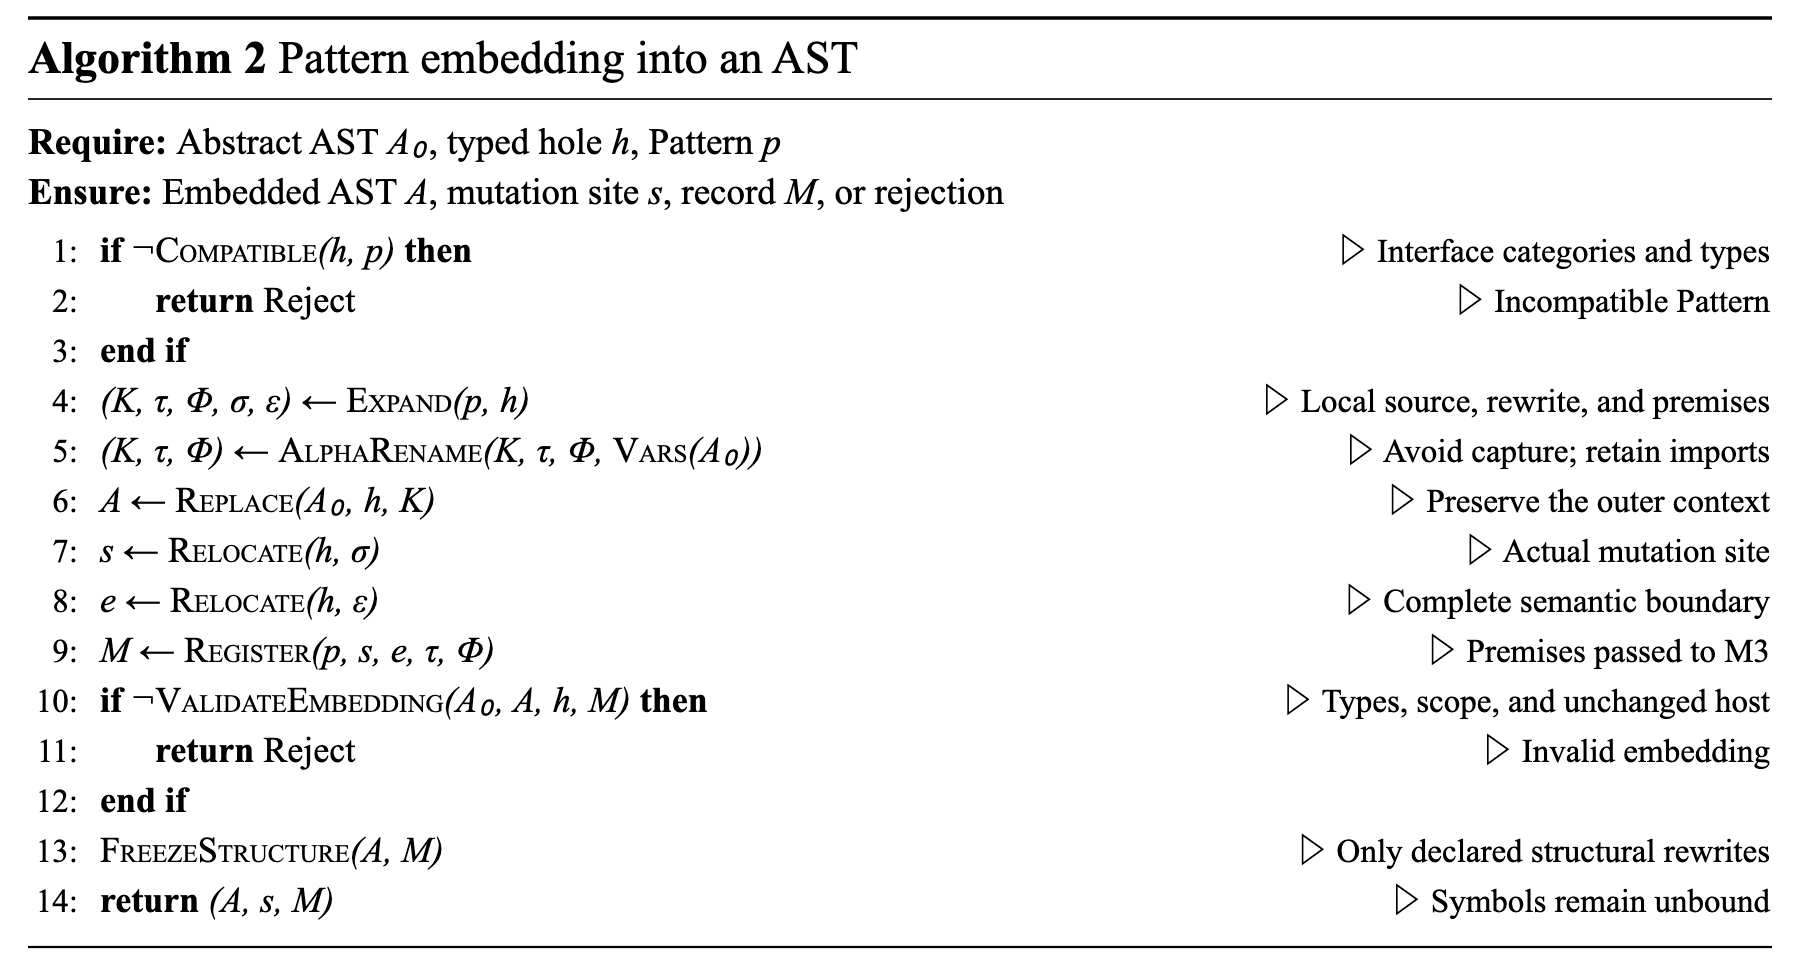
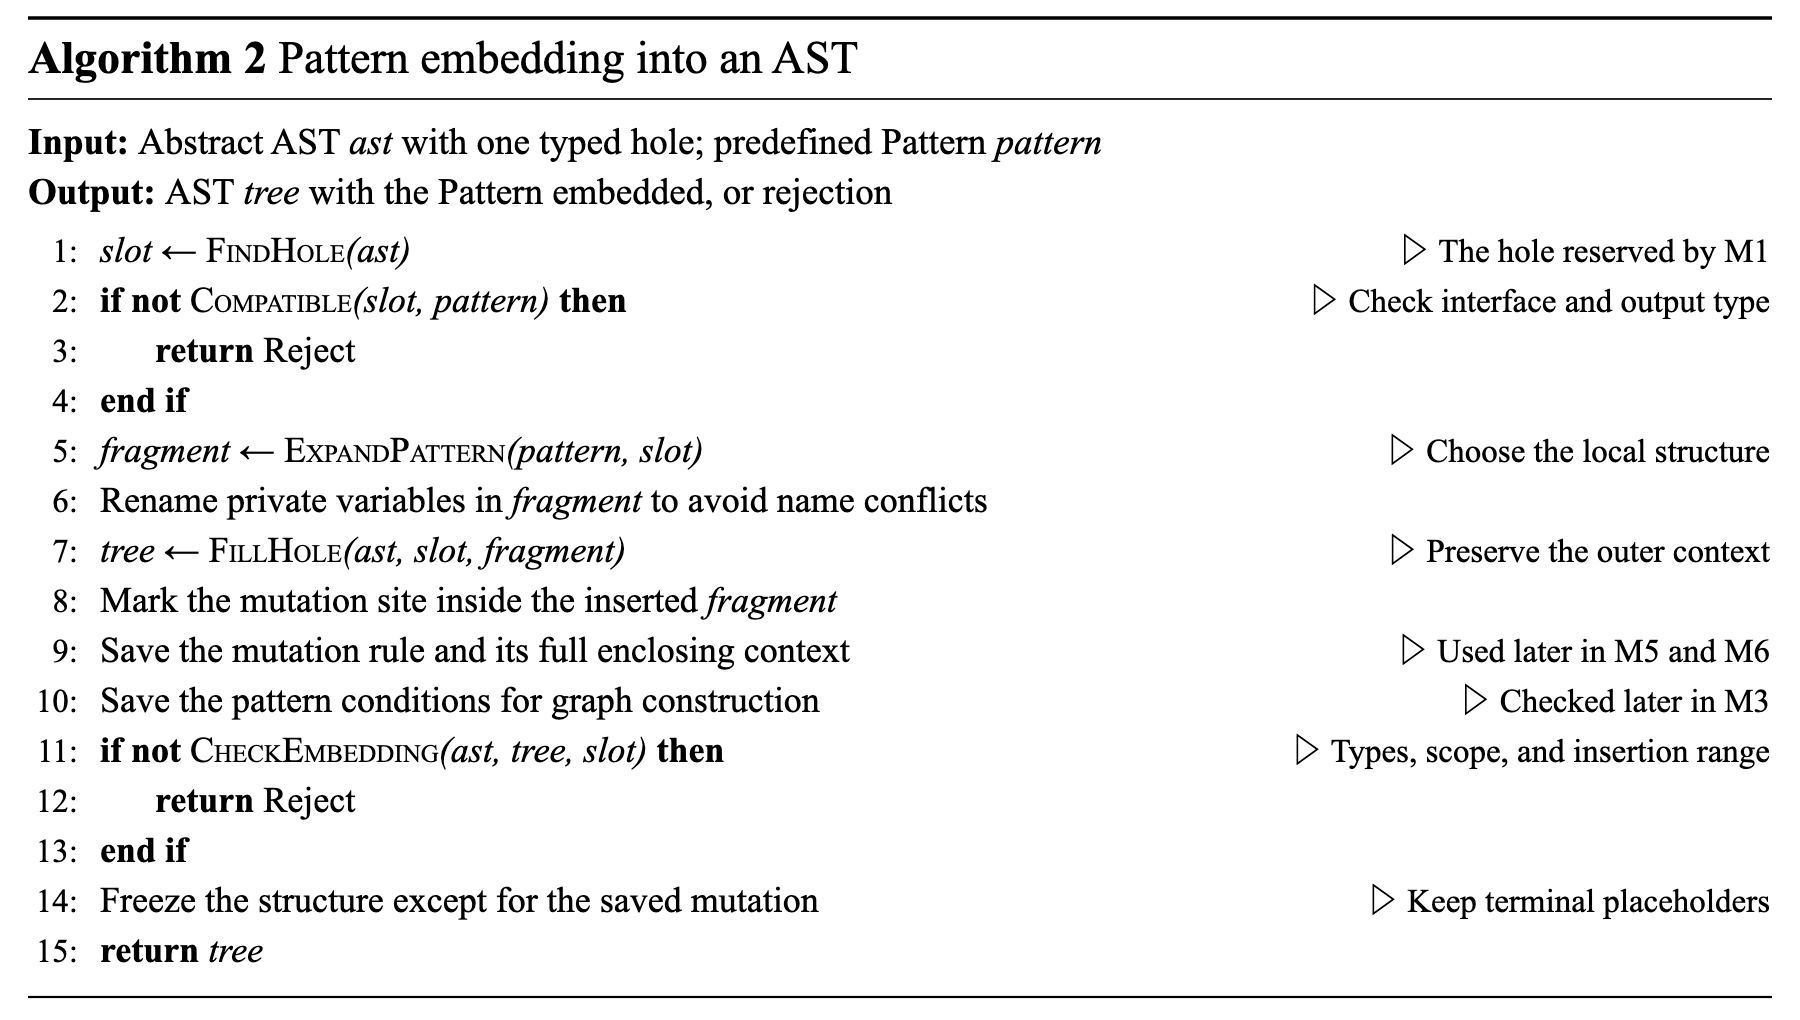
Rewrite Pattern embedding pseudocode with readable objects and actions

Changed region(s): [[0.0, 0.0, 0.9956, 0.9897], [0.7156, 0.4021, 0.9956, 0.8041], [0.7156, 0.2165, 0.9956, 0.3402]]

diff --git a/picture/algorithm_assets/build_pattern_embedding_algorithm.py b/picture/algorithm_assets/build_pattern_embedding_algorithm.py
@@ -16,32 +16,31 @@ def piece(value, kind='math'):
 
 
 ROWS = [
-    (0, [piece('if ', 'keyword'), piece('¬'), piece('Compatible', 'proc'), piece('(h, p)'), piece(' then', 'keyword')],
-     'Interface categories and types', r'\If{$\neg$\Call{Compatible}{$h,p$}}\Comment{Interface categories and types}'),
-    (1, [piece('return ', 'keyword'), piece('Reject', 'plain')],
-     'Incompatible Pattern', r'\State \Return \textsc{Reject}\Comment{Incompatible Pattern}'),
+    (0, [piece('slot ← '), piece('FindHole', 'proc'), piece('(ast)')],
+     'The hole reserved by M1', r'\State \textit{slot} $\gets$ \Call{FindHole}{\textit{ast}}\Comment{The hole reserved by M1}'),
+    (0, [piece('if not ', 'keyword'), piece('Compatible', 'proc'), piece('(slot, pattern)'), piece(' then', 'keyword')],
+     'Check interface and output type', r'\If{not \Call{Compatible}{\textit{slot}, \textit{pattern}}}\Comment{Check interface and output type}'),
+    (1, [piece('return ', 'keyword'), piece('Reject', 'plain')], '', r'\State \Return \textsc{Reject}'),
     (0, [piece('end if', 'keyword')], '', r'\EndIf'),
-    (0, [piece('(K, τ, Φ, σ, ε) ← '), piece('Expand', 'proc'), piece('(p, h)')],
-     'Local source, rewrite, and premises', r'\State $(K,\tau,\Phi,\sigma,\epsilon)\gets$\Call{Expand}{$p,h$}\Comment{Local source, rewrite, and premises}'),
-    (0, [piece('(K, τ, Φ) ← '), piece('AlphaRename', 'proc'), piece('(K, τ, Φ, '), piece('Vars', 'proc'), piece('(A₀))')],
-     'Avoid capture; retain imports', r'\State $(K,\tau,\Phi)\gets$\Call{AlphaRename}{$K,\tau,\Phi,\text{\textsc{Vars}}(A_0)$}\Comment{Avoid capture; retain imports}'),
-    (0, [piece('A ← '), piece('Replace', 'proc'), piece('(A₀, h, K)')],
-     'Preserve the outer context', r'\State $A\gets$\Call{Replace}{$A_0,h,K$}\Comment{Preserve the outer context}'),
-    (0, [piece('s ← '), piece('Relocate', 'proc'), piece('(h, σ)')],
-     'Actual mutation site', r'\State $s\gets$\Call{Relocate}{$h,\sigma$}\Comment{Actual mutation site}'),
-    (0, [piece('e ← '), piece('Relocate', 'proc'), piece('(h, ε)')],
-     'Complete semantic boundary', r'\State $e\gets$\Call{Relocate}{$h,\epsilon$}\Comment{Complete semantic boundary}'),
-    (0, [piece('M ← '), piece('Register', 'proc'), piece('(p, s, e, τ, Φ)')],
-     'Premises passed to M3', r'\State $M\gets$\Call{Register}{$p,s,e,\tau,\Phi$}\Comment{Premises passed to M3}'),
-    (0, [piece('if ', 'keyword'), piece('¬'), piece('ValidateEmbedding', 'proc'), piece('(A₀, A, h, M)'), piece(' then', 'keyword')],
-     'Types, scope, and unchanged host', r'\If{$\neg$\Call{ValidateEmbedding}{$A_0,A,h,M$}}\Comment{Types, scope, and unchanged host}'),
-    (1, [piece('return ', 'keyword'), piece('Reject', 'plain')],
-     'Invalid embedding', r'\State \Return \textsc{Reject}\Comment{Invalid embedding}'),
+    (0, [piece('fragment ← '), piece('ExpandPattern', 'proc'), piece('(pattern, slot)')],
+     'Choose the local structure', r'\State \textit{fragment} $\gets$ \Call{ExpandPattern}{\textit{pattern}, \textit{slot}}\Comment{Choose the local structure}'),
+    (0, [piece('Rename private variables in ', 'plain'), piece('fragment'), piece(' to avoid name conflicts', 'plain')],
+     '', r'\State Rename private variables in \textit{fragment} to avoid name conflicts'),
+    (0, [piece('tree ← '), piece('FillHole', 'proc'), piece('(ast, slot, fragment)')],
+     'Preserve the outer context', r'\State \textit{tree} $\gets$ \Call{FillHole}{\textit{ast}, \textit{slot}, \textit{fragment}}\Comment{Preserve the outer context}'),
+    (0, [piece('Mark the mutation site inside the inserted ', 'plain'), piece('fragment')],
+     '', r'\State Mark the mutation site inside the inserted \textit{fragment}'),
+    (0, [piece('Save the mutation rule and its full enclosing context', 'plain')],
+     'Used later in M5 and M6', r'\State Save the mutation rule and its full enclosing context\Comment{Used later in M5 and M6}'),
+    (0, [piece('Save the pattern conditions for graph construction', 'plain')],
+     'Checked later in M3', r'\State Save the pattern conditions for graph construction\Comment{Checked later in M3}'),
+    (0, [piece('if not ', 'keyword'), piece('CheckEmbedding', 'proc'), piece('(ast, tree, slot)'), piece(' then', 'keyword')],
+     'Types, scope, and insertion range', r'\If{not \Call{CheckEmbedding}{\textit{ast}, \textit{tree}, \textit{slot}}}\Comment{Types, scope, and insertion range}'),
+    (1, [piece('return ', 'keyword'), piece('Reject', 'plain')], '', r'\State \Return \textsc{Reject}'),
     (0, [piece('end if', 'keyword')], '', r'\EndIf'),
-    (0, [piece('FreezeStructure', 'proc'), piece('(A, M)')],
-     'Only declared structural rewrites', r'\State \Call{FreezeStructure}{$A,M$}\Comment{Only declared structural rewrites}'),
-    (0, [piece('return ', 'keyword'), piece('(A, s, M)')],
-     'Symbols remain unbound', r'\State \Return $(A,s,M)$\Comment{Symbols remain unbound}'),
+    (0, [piece('Freeze the structure except for the saved mutation', 'plain')],
+     'Keep terminal placeholders', r'\State Freeze the structure except for the saved mutation\Comment{Keep terminal placeholders}'),
+    (0, [piece('return ', 'keyword'), piece('tree')], '', r'\State \Return \textit{tree}'),
 ]
 
 
@@ -58,22 +57,21 @@ def rich_text(x, y, fragments, size=36, anchor='start'):
 
 def main():
     elements = [
-        '<svg xmlns="http://www.w3.org/2000/svg" width="1800" height="970" '
-        'viewBox="0 0 1800 970" role="img" aria-labelledby="title desc">',
+        '<svg xmlns="http://www.w3.org/2000/svg" width="1800" height="1020" '
+        'viewBox="0 0 1800 1020" role="img" aria-labelledby="title desc">',
         '<title id="title">Algorithm 2: Pattern embedding into an AST</title>',
-        '<desc id="desc">Fourteen numbered steps check a typed hole, expand and alpha-rename '
-        'a local Pattern, insert its source, register its mutation and complete semantic boundary, '
+        '<desc id="desc">Fifteen readable steps find a slot, expand a local Pattern, rename variables, '
+        'insert the fragment, mark the mutation site and save its complete context, '
         'validate structure, and freeze all undeclared generation changes. Graph premises are '
         'recorded for M3 rather than checked in M2.</desc>',
-        '<rect width="1800" height="970" fill="white"/>',
+        '<rect width="1800" height="1020" fill="white"/>',
         '<path d="M28 18H1772" stroke="black" stroke-width="3.5"/>',
         rich_text(28, 73, [piece('Algorithm 2 ', 'keyword'), piece('Pattern embedding into an AST', 'plain')], 46),
         '<path d="M28 99H1772" stroke="black" stroke-width="1.7"/>',
-        rich_text(28, 154, [piece('Require: ', 'keyword'), piece('Abstract AST ', 'plain'), piece('A₀'),
-                            piece(', typed hole ', 'plain'), piece('h'), piece(', Pattern ', 'plain'), piece('p')], 37),
-        rich_text(28, 204, [piece('Ensure: ', 'keyword'), piece('Embedded AST ', 'plain'), piece('A'),
-                            piece(', mutation site ', 'plain'), piece('s'), piece(', record ', 'plain'), piece('M'),
-                            piece(', or rejection', 'plain')], 37),
+        rich_text(28, 154, [piece('Input: ', 'keyword'), piece('Abstract AST ', 'plain'), piece('ast'),
+                            piece(' with one typed hole; predefined Pattern ', 'plain'), piece('pattern')], 37),
+        rich_text(28, 204, [piece('Output: ', 'keyword'), piece('AST ', 'plain'), piece('tree'),
+                            piece(' with the Pattern embedded, or rejection', 'plain')], 37),
     ]
     for index, (indent, fragments, comment, _) in enumerate(ROWS, 1):
         y = 262 + (index - 1) * 50
@@ -81,7 +79,7 @@ def main():
         elements.append(rich_text(100 + indent * 55, y, fragments))
         if comment:
             elements.append(rich_text(1770, y, [piece('▷ ' + comment, 'plain')], 33, 'end'))
-    elements.extend(['<path d="M28 947H1772" stroke="black" stroke-width="2.2"/>', '</svg>'])
+    elements.extend(['<path d="M28 997H1772" stroke="black" stroke-width="2.2"/>', '</svg>'])
     svg = '\n'.join(elements) + '\n'
     ElementTree.fromstring(svg)
     output = PICTURE / 'Algorithm_2_pattern_embedding.svg'
@@ -89,8 +87,8 @@ def main():
 
     tex = [r'\begin{algorithm}[H]', r'\caption{Pattern embedding into an AST}', r'\label{alg:pattern-embedding}',
            r'\begin{algorithmic}[1]',
-           r'\Require Abstract AST $A_0$, typed hole $h$, Pattern $p$',
-           r'\Ensure Embedded AST $A$, mutation site $s$, record $M$, or rejection']
+           r'\Require Abstract AST \textit{ast} with one typed hole; predefined Pattern \textit{pattern}',
+           r'\Ensure AST \textit{tree} with the Pattern embedded, or rejection']
     tex.extend(row[3] for row in ROWS)
     tex.extend([r'\end{algorithmic}', r'\end{algorithm}'])
     TEX.write_text('\n'.join(tex) + '\n', encoding='utf-8')

diff --git a/docs/algorithms/pattern-embedding/algorithm.tex b/docs/algorithms/pattern-embedding/algorithm.tex
@@ -2,21 +2,22 @@
 \caption{Pattern embedding into an AST}
 \label{alg:pattern-embedding}
 \begin{algorithmic}[1]
-\Require Abstract AST $A_0$, typed hole $h$, Pattern $p$
-\Ensure Embedded AST $A$, mutation site $s$, record $M$, or rejection
-\If{$\neg$\Call{Compatible}{$h,p$}}\Comment{Interface categories and types}
-\State \Return \textsc{Reject}\Comment{Incompatible Pattern}
+\Require Abstract AST \textit{ast} with one typed hole; predefined Pattern \textit{pattern}
+\Ensure AST \textit{tree} with the Pattern embedded, or rejection
+\State \textit{slot} $\gets$ \Call{FindHole}{\textit{ast}}\Comment{The hole reserved by M1}
+\If{not \Call{Compatible}{\textit{slot}, \textit{pattern}}}\Comment{Check interface and output type}
+\State \Return \textsc{Reject}
 \EndIf
-\State $(K,\tau,\Phi,\sigma,\epsilon)\gets$\Call{Expand}{$p,h$}\Comment{Local source, rewrite, and premises}
-\State $(K,\tau,\Phi)\gets$\Call{AlphaRename}{$K,\tau,\Phi,\text{\textsc{Vars}}(A_0)$}\Comment{Avoid capture; retain imports}
-\State $A\gets$\Call{Replace}{$A_0,h,K$}\Comment{Preserve the outer context}
-\State $s\gets$\Call{Relocate}{$h,\sigma$}\Comment{Actual mutation site}
-\State $e\gets$\Call{Relocate}{$h,\epsilon$}\Comment{Complete semantic boundary}
-\State $M\gets$\Call{Register}{$p,s,e,\tau,\Phi$}\Comment{Premises passed to M3}
-\If{$\neg$\Call{ValidateEmbedding}{$A_0,A,h,M$}}\Comment{Types, scope, and unchanged host}
-\State \Return \textsc{Reject}\Comment{Invalid embedding}
+\State \textit{fragment} $\gets$ \Call{ExpandPattern}{\textit{pattern}, \textit{slot}}\Comment{Choose the local structure}
+\State Rename private variables in \textit{fragment} to avoid name conflicts
+\State \textit{tree} $\gets$ \Call{FillHole}{\textit{ast}, \textit{slot}, \textit{fragment}}\Comment{Preserve the outer context}
+\State Mark the mutation site inside the inserted \textit{fragment}
+\State Save the mutation rule and its full enclosing context\Comment{Used later in M5 and M6}
+\State Save the pattern conditions for graph construction\Comment{Checked later in M3}
+\If{not \Call{CheckEmbedding}{\textit{ast}, \textit{tree}, \textit{slot}}}\Comment{Types, scope, and insertion range}
+\State \Return \textsc{Reject}
 \EndIf
-\State \Call{FreezeStructure}{$A,M$}\Comment{Only declared structural rewrites}
-\State \Return $(A,s,M)$\Comment{Symbols remain unbound}
+\State Freeze the structure except for the saved mutation\Comment{Keep terminal placeholders}
+\State \Return \textit{tree}
 \end{algorithmic}
 \end{algorithm}

diff --git a/docs/algorithms/pattern-embedding/main.tex b/docs/algorithms/pattern-embedding/main.tex
@@ -5,8 +5,8 @@
 \usepackage{algorithm}
 \usepackage{algpseudocode}
 \pagestyle{empty}
-\algrenewcommand\algorithmicrequire{\textbf{Require:}}
-\algrenewcommand\algorithmicensure{\textbf{Ensure:}}
+\algrenewcommand\algorithmicrequire{\textbf{Input:}}
+\algrenewcommand\algorithmicensure{\textbf{Output:}}
 \setcounter{algorithm}{1}
 \begin{document}
 \input{algorithm.tex}

diff --git a/docs/algorithms/pattern-embedding/README.md b/docs/algorithms/pattern-embedding/README.md
@@ -1,33 +1,46 @@
-# M2：往 AST 中嵌入 Pattern 的论文伪代码
+# M2 Pattern 嵌入：可读版伪代码
 
-本算法描述对指定 Pattern p 的一次嵌入。输入为抽象 AST A₀、带类型插槽 h 和 p；输出为嵌入后的 AST A、唯一变异位点 s、规则记录 M，或拒绝。
+参照 SCor Algorithm 1 和 GDsmith Algorithms 2–3 的表达方式，使用易懂的对象名和简短动作，不在主算法中展开位置地址、语义边界和变异记录的内部字段。算法行为仍对应当前 M2。
 
-## 符号及辅助步骤
+```text
+Algorithm 2  将 Pattern 嵌入 AST
+Input:  抽象 AST ast，待嵌入的 Pattern pattern
+Output: 嵌入后的 AST tree，或拒绝
 
-- K：将插入 h 的局部源结构。
-- τ：已声明但尚未执行的局部变异规则及其载荷。
-- Φ：Pattern 的图数据前提，由 M3 构造和检查。
-- σ、ε：相对于适配后的 K 的变异位点和完整语义边界地址。
-- s、e：上述地址嵌入整棵 AST 后的全局位置。
-- M：保存 p、s、e、τ、Φ 的记录，供后续构图、实例化、变异和依赖检查使用。
+1:  slot ← 获取 ast 中预留的插槽
+2:  if slot 与 pattern 的接口类型不兼容 then
+3:      return Reject
+4:  end if
+5:  fragment ← 将 pattern 展开为局部 AST
+6:  重命名 fragment 中的私有变量，避免与外层重名
+7:  tree ← 用 fragment 替换 ast 中的 slot
+8:  标记插入结构中后续需要变异的节点
+9:  记录变异方式及其完整保护上下文
+10: 保存后续构图需要满足的 Pattern 条件
+11: if tree 的类型、作用域或插入范围检查失败 then
+12:     return Reject
+13: end if
+14: 固定 tree 的生成结构，仅允许已记录的变异
+15: return tree
+```
 
-`Expand(p,h)` 展开预定义的局部规则，固定其中的结构选择，并处理已声明的接口适配。此时不读取图数据，不落实符号终端的具体取值。
+## 与方法对应的含义
 
-`AlphaRename` 同时重命名源结构、变异载荷和前提中的私有变量引用，避免捕获；已显式导入的外层绑定保持不变。地址 σ、ε 描述结构位置，不因私有变量改名而改变。
+- `ExpandPattern` 固定局部结构并进行已声明的接口适配，不构图、不执行变异，也不选择具体图数据。
+- 重命名覆盖局部源结构、变异备选和条件中的私有变量；显式导入的外层绑定保持原义。
+- 第8–9行一起保存“改哪里、怎么改、哪些上下文需要保留”，供 M5 变异和 M6 传播检查使用。
+- 第10行保存的条件由 M3 构造图状态时满足和检查。
+- 第11行还检查插槽以外的结构保持不变，以及局部展开未超过预留预算。
+- 第14行允许 M3／M4填充符号终端；结构变化仅限 M5 执行已登记的局部变异。
 
-`ValidateEmbedding` 检查整树类型、作用域、唯一标记、插槽外结构不变及预留预算；它不验证 Φ 已在某张图上成立。
+输入 Pattern 已由本轮实验指定。不兼容时返回拒绝，由外层重试；如需重新选择 Pattern，应在外层选择后再次调用本算法。
 
-`FreezeStructure(A,M)` 固定生成结构及允许的变异，不禁止 M5 执行 M 中已登记的变换。建议正文相应写为：
+## 参考写法与文件
 
-> 嵌入结束后，生成结构及允许的局部变换一并固定；M3 与 M4 仅求解和落实符号终端，M5 仅执行已登记的局部变异。
-
-若 p 已经由本轮实验指定，接口不兼容时本算法直接返回拒绝，由外层重采样宿主；若希望重新选择 Pattern，应由外层从候选集合中选择后重试，不能在此处静默改变测试目标。
-
-## 文件
-
-- [论文版 SVG](../../../picture/Algorithm_2_pattern_embedding.svg)
+- [SCor 正式论文](../../../reference/Scor.pdf)：Algorithm 1，印刷页184:10。
+- [GDsmith 正式论文](https://taoxiease.github.io/publications/issta23-gdsmith.pdf)：Algorithms 2–3。
+- [可编辑 SVG](../../../picture/Algorithm_2_pattern_embedding.svg)
 - [PNG 预览](../../../picture/Algorithm_2_pattern_embedding.png)
-- [可嵌入论文的 LaTeX 片段](algorithm.tex)
-- [独立编译主文件](main.tex)
+- [LaTeX 片段](algorithm.tex)／[独立主文件](main.tex)
 
-两份算法表示共用 [同一生成源](../../../picture/algorithm_assets/build_pattern_embedding_algorithm.py)，共14个编号步骤。
+SVG 和 LaTeX 共用 [同一生成源](../../../picture/algorithm_assets/build_pattern_embedding_algorithm.py)，均为15行。这里借鉴两篇论文的算法写作方式，所描述的嵌入流程为 GraphSymPerf 自身的方法。
